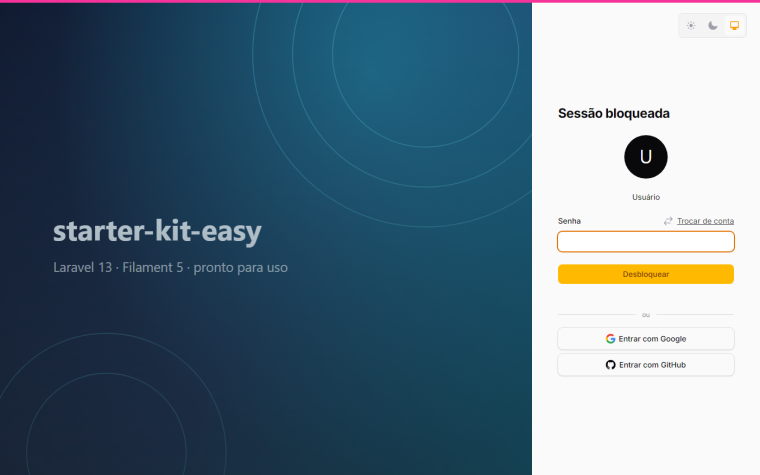
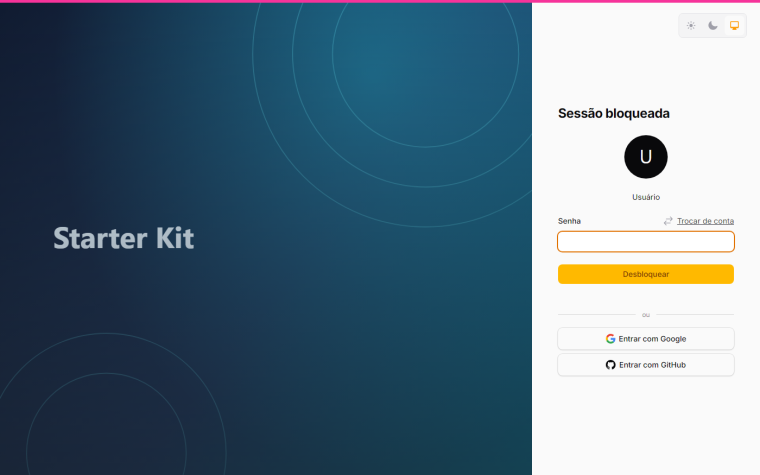
🎨 chore(art): regera as capturas e adota login.png no kit:arte
Todas as telas de autenticação passam a mostrar o nome da aplicação na arte, em vez
de `starter-kit-easy` — são três: `login.png`, `login-social.png` e
`app-bloqueio-social.png`. A última confirma, visualmente, que a tela de bloqueio
herda a chave `login` e é vestida pela mesma arte sem ter `->media()` próprio.

`art/login.png` passa a ser gerada pelo comando. Ela é a PRIMEIRA imagem dos dois
READMEs — a vitrine do kit — e era a única captura de tela de autenticação fora do
`kit:arte`, de antes do comando existir. Foi por isso que envelheceu até anunciar o
nome do kit numa arte que já mudou; adotá-la é o que impede a próxima defasagem.

O par exigido por `.ai/rules/testes-browser.md` está completo: o
`->screenshot(filename: 'login')` no cenário e a linha `'login'` em
`KitArte::IMAGENS`. Sem a segunda o comando reporta a imagem como ignorada.

O cenário também afirma `assertPresent('img.fi-auth-media')` e `assertNoBrokenImages()`,
porque a arte agora é um data URI construído pelo kit: se ele quebrar, a captura sairia
com o espaço vazio e nada mais acusaria.

Changed region(s): [[0.0605, 0.4421, 0.3934, 0.5895]]

diff --git a/tests/BrowserTenancy/CapturaDeArteTest.php b/tests/BrowserTenancy/CapturaDeArteTest.php
@@ -279,6 +279,33 @@ it('captura a tela de boas-vindas da raiz', function (): void {
 | sai do painel do arranjo (.ai/rules/testes-browser.md).
 */
 
+/*
+|--------------------------------------------------------------------------
+| A tela de login da vitrine
+|--------------------------------------------------------------------------
+| `art/login.png` é a PRIMEIRA imagem dos dois READMEs, e era a única captura de
+| tela de autenticação que o comando não gerava — vinha de antes dele. Ficou de
+| fora até a wiki `arte-do-login-com-nome-da-aplicacao`, quando a arte passou a
+| carregar o nome da aplicação e a imagem velha passou a vender "starter-kit-easy"
+| na vitrine do kit.
+|
+| Adotada aqui para não envelhecer sozinha de novo. O par é obrigatório
+| (`.ai/rules/testes-browser.md`): o `filename` daqui e a linha em
+| `KitArte::IMAGENS` — sem a segunda, o comando reporta a imagem como ignorada.
+*/
+
+it('captura a tela de login do painel de administração', function (): void {
+    auth()->logout();
+
+    visit('/admin/login')
+        ->resize(1400, 875)
+        ->assertSee('Faça login')
+        // A arte é o motivo desta captura existir: ela mostra o nome da aplicação.
+        ->assertPresent('img.fi-auth-media')
+        ->assertNoBrokenImages()
+        ->screenshot(fullPage: false, filename: 'login');
+})->group('browser', 'art');
+
 it('captura a tela de login com os botões sociais e o rodapé', function (): void {
     ligarProvedor(ProvedorSocial::Google);
     ligarProvedor(ProvedorSocial::Github);

diff --git a/app/Console/Commands/KitArte.php b/app/Console/Commands/KitArte.php
@@ -64,6 +64,9 @@ class KitArte extends Command
      * @var list<string>
      */
     private const IMAGENS = [
+        // A tela de login da vitrine (wiki arte-do-login-com-nome-da-aplicacao, passo 5).
+        'login',
+
         // Login social e vínculo de provedor (wiki vinculo-de-provedor-social, passo 9).
         'login-social',
         'admin-configuracoes-login',
